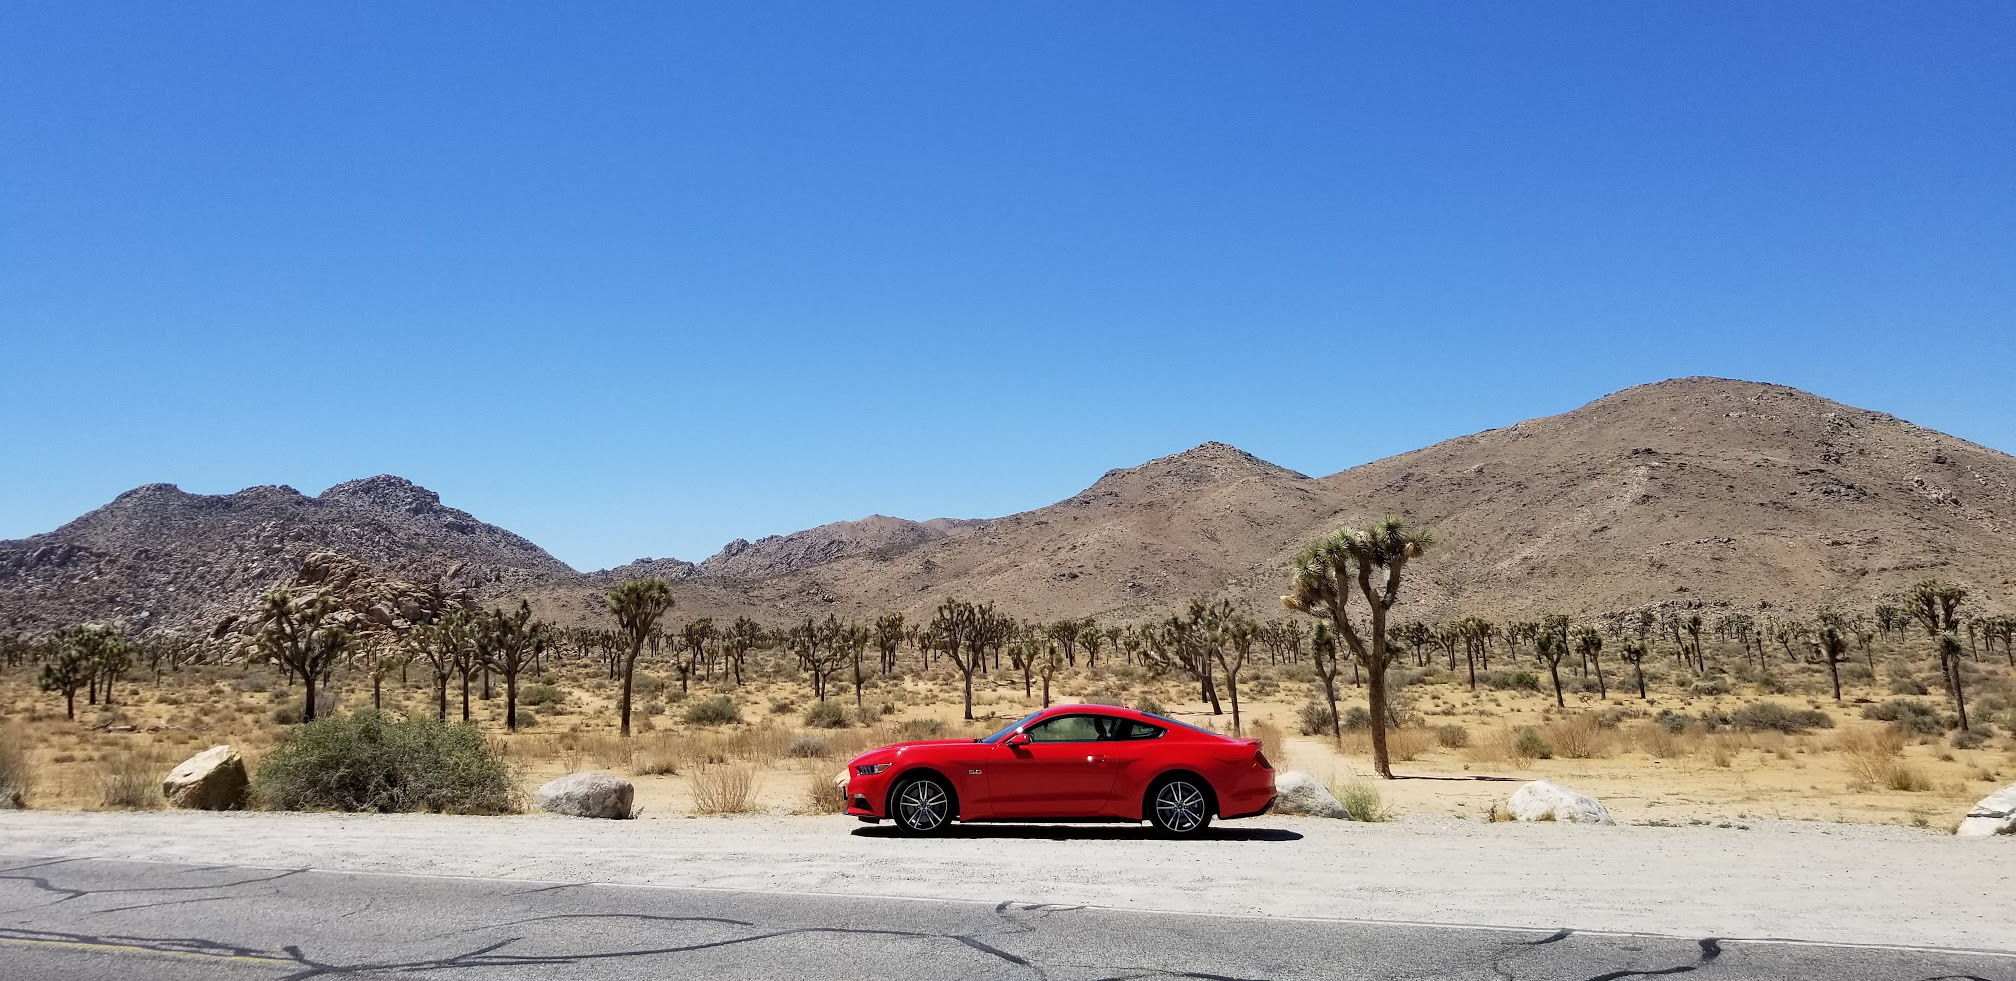
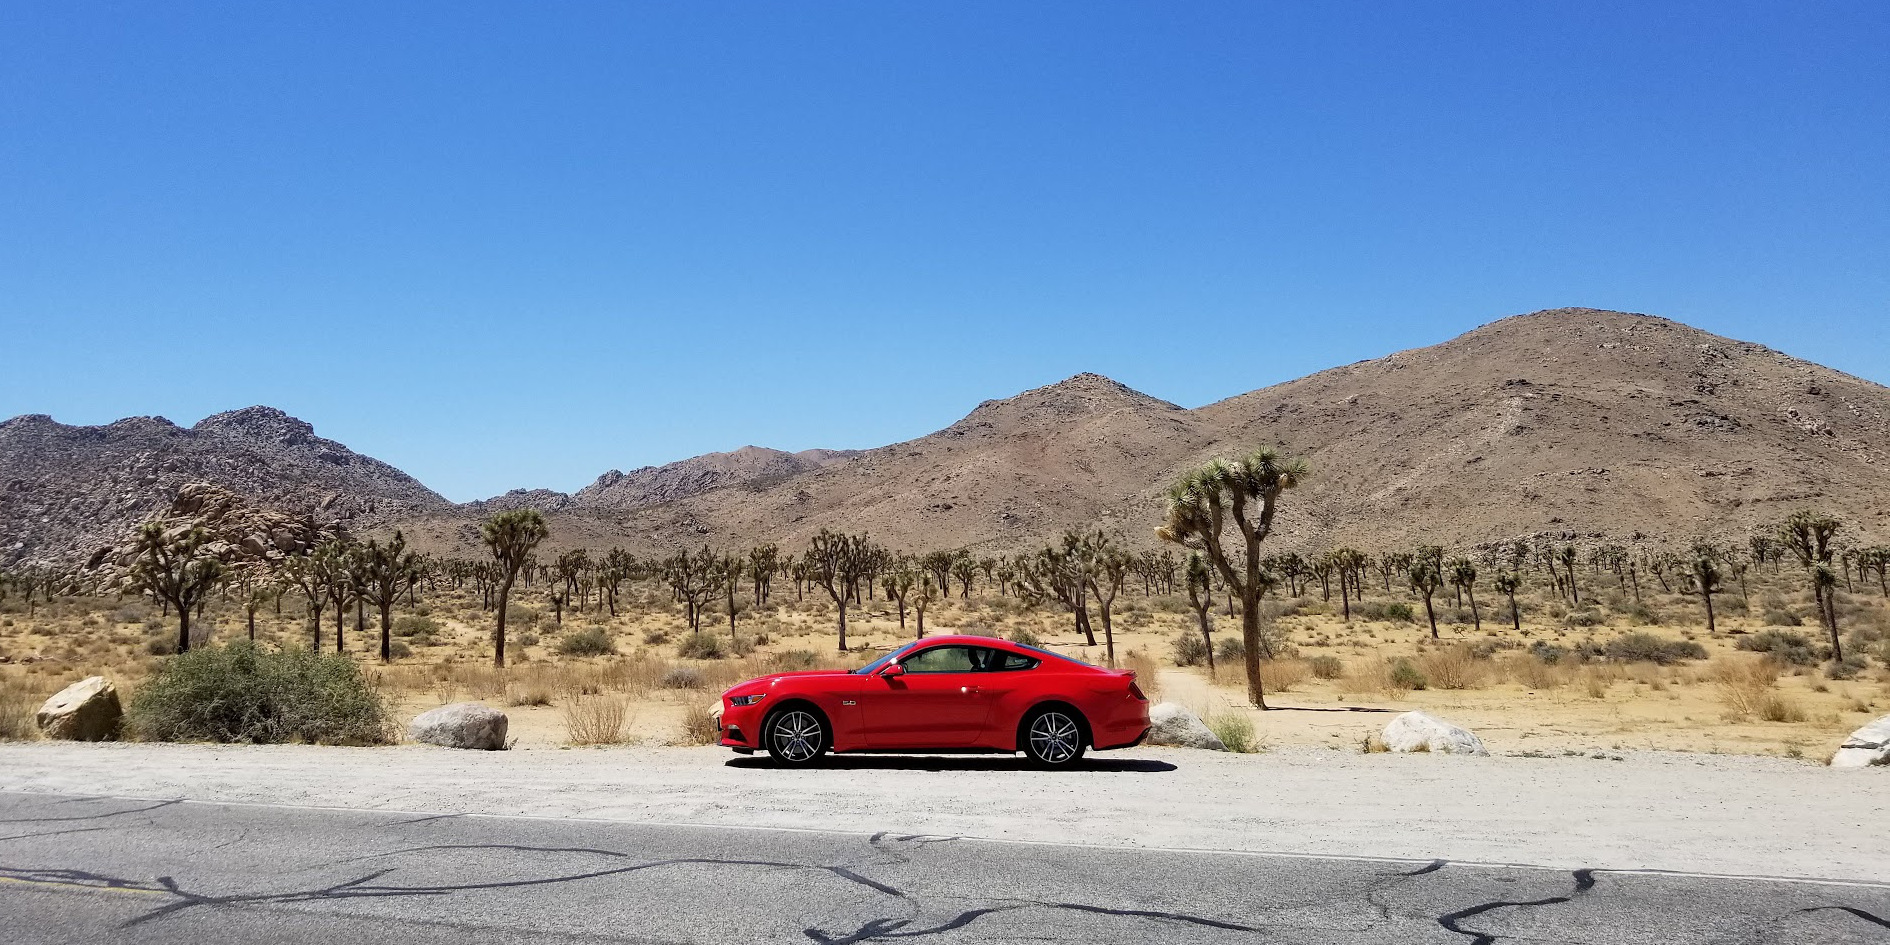
Further styling for modal and main component

diff --git a/app/assets/stylesheets/main.scss b/app/assets/stylesheets/main.scss
@@ -5,9 +5,8 @@ body {
     line-height: 1.5;
     display: block;
     // background-image: url('http://www.wallpaperbetter.com/wallpaper/824/456/1016/sports-car-auto-chevrolet-camaro-ss-muscle-cars-nature-road-1080P-wallpaper.jpg');
-    background-image: url('https://github.com/fsiino/turo-clone/blob/master/app/assets/images/mustang_joshua_tree.jpg?raw=true');
-    background-size: cover;    
-    // background-size: 100% 600px;
+    background-image: url('https://github.com/fsiino/turo-clone/blob/master/app/assets/images/mustang_joshua_tree_cropped.jpg?raw=true');
+    background-size: 100% 600px;
     background-repeat: no-repeat;
     background-position-x: 5%;    
 }
